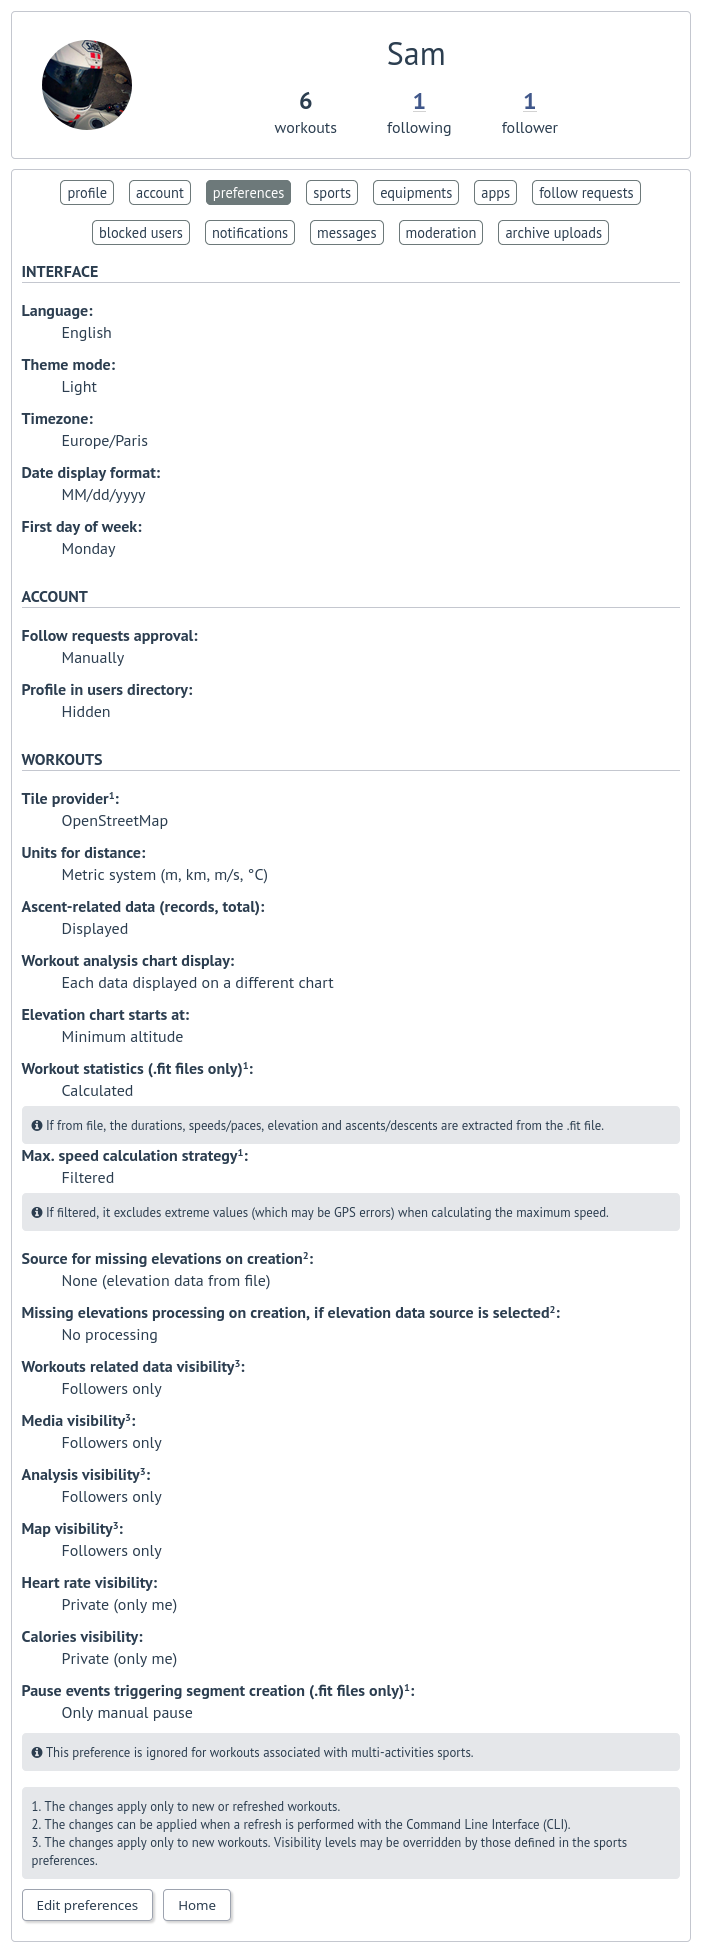
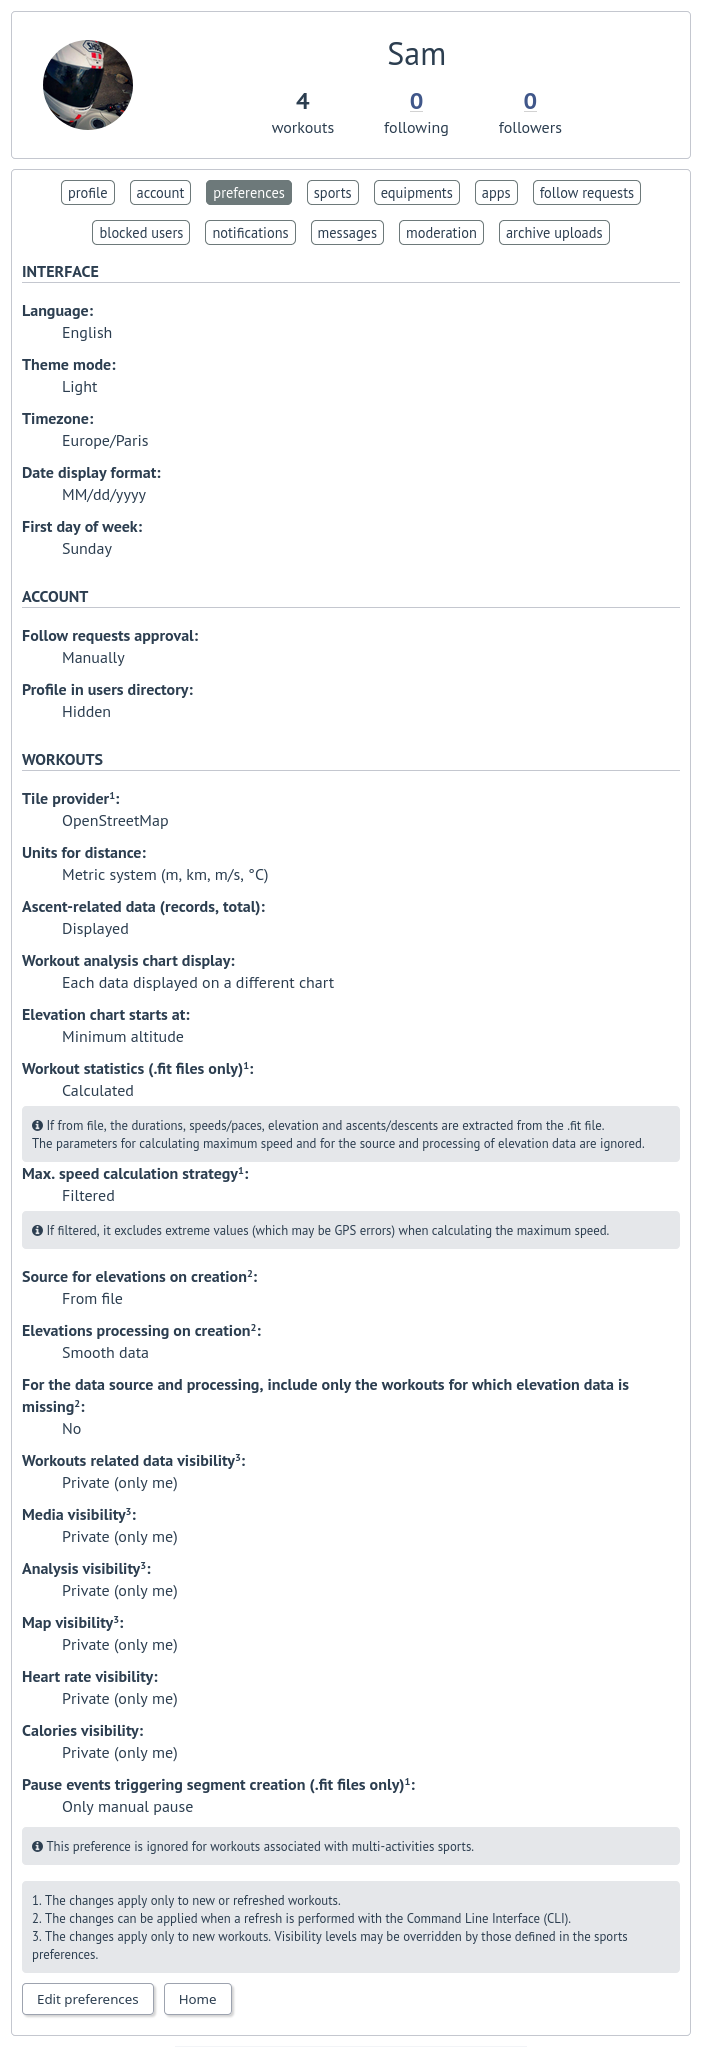
update documentation

Changed region(s): [[0.0299, 0.0, 0.9872, 1.0]]

diff --git a/docsrc/source/features/workout.rst b/docsrc/source/features/workout.rst
@@ -419,23 +419,29 @@ Users can report a workout that violates instance rules. This will send a notifi
 Calculated data
 ===============
 
-.. versionchanged:: 1.4.0 added possibility to get statistics from ``.fit`` file
-
 .. admonition:: Technical notes
 
   Related data are stored in database in metric system.
 
-In case of ``.fit`` files, if the `preference <account_and_preferences.html#preferences>`__ "Workout statistics" is set to "From file", the statistics are not calculated by **FitTrackee** (and ``gpxpy``), but extracted from the file.
+By default, **FitTrackee** extracts points from files and calculates all statistics using `gpxpy <https://github.com/tkrajina/gpxpy>`_.
+
+This explains the differences between the statistics displayed by **FitTrackee** and those displayed by the app or device that originally recorded the file.
+These differences are particularly noticeable for the duration of pauses and the maximum speed.
+
+By default, extreme speed values (which may be related to GPS errors) are excluded, which also affects the maximum speed (and pace).
+
+Some `preferences <account_and_preferences.html#preferences>`__ allow to change the default behavior.
+
+Extracting statistics from the file
+-----------------------------------
+.. versionadded:: 1.4.0
+
+In case of ``.fit`` files only, if the `preference <account_and_preferences.html#preferences>`__ "Workout statistics" is set to "From file", the statistics are not calculated by **FitTrackee**, but extracted from the file.
 
 .. note::
     Statistics are always calculated for segments regardless of preferences (except in case of sports that combine multiple disciplines like **SwimRun** and **Triathlon**)
 
-Otherwise, the calculated values may differ from values calculated by the application or device that originally generated the files, in particular the maximum speed or the duration of pauses.
-
-By default, extreme speed values (which may be related to GPS errors) are excluded, which also affects the maximum speed (and pace).
-
-.. note::
-  A user preference allows this behavior to be disabled (see `Account & preferences <account_and_preferences.html#preferences>`__).
+In addition, the preferences for the source and processing of elevation data are ignored.
 
 
 Stopped speed threshold
@@ -466,12 +472,13 @@ Elevation
 ---------
 .. versionchanged:: 1.0.6 elevation is not displayed for flatwater sports
 .. versionchanged:: 1.1.0 add missing elevation and elevation data source change
-.. versionchanged:: 1.4.0 allow smoothing to be applied regardless of elevation data source
+.. versionchanged:: 1.4.0 allow smoothing to be applied regardless of elevation data source or missing elevation
 
 Elevation-related data for racket sports (Outdoor Tennis and Padel), flatwater sports (Canoeing, Kayaking, Rowing, Open Water Swimming, Rowing and Standup Paddleboarding) and Ice Skating are not displayed if the file contains elevation
 
 | If some elevation data are missing and an `elevation service <../installation/elevation.html>`__ is enabled by the administrators, the missing elevations can be retrieved on workout creation if the user `preference <account_and_preferences.html#preferences>`__ is set.
 | In this case, all elevations are updated.
+| This preference can also be applied to workouts for which no elevation data is missing.
 
 .. note::
 

diff --git a/docsrc/source/features/account_and_preferences.rst b/docsrc/source/features/account_and_preferences.rst
@@ -39,7 +39,7 @@ Preferences
 .. versionchanged:: 0.11.0 preferred displayed for charts
 .. versionchanged:: 1.1.0 missing elevation processing
 .. versionchanged:: 1.3.0 added media visibility
-.. versionchanged:: 1.4.0 added workout statistics from ``.fit`` file and default tile provider, updated missing elevation processing
+.. versionchanged:: 1.4.0 added workout statistics from ``.fit`` file and default tile provider, updated elevation processing
 
 .. figure:: ../_images/user-preferences.png
    :alt: User Preferences on FitTrackee
@@ -67,7 +67,7 @@ For workouts, it is possible to choose:
 - workout statistics (.fit files only):
 
   - calculated (default)
-  - from file ("Max. speed calculation strategy" preference is ignored)
+  - from file (preferences for calculating maximum speed and for the source and processing of elevation data will be ignored)
 
 - elevation chart axis start: zero or minimum altitude
 - to exclude extreme values (which may be GPS errors) when calculating the maximum speed (by default, extreme values are excluded)
@@ -75,16 +75,21 @@ For workouts, it is possible to choose:
   .. note::
     Changing this preference will only affect next file uploads.
 
-- source when elevation is missing if an elevation service is set:
+- elevation source on creation if an elevation service is set:
 
   - none (elevation data from file)
   - OpenElevation
   - Valhalla
 
-- smoothing elevation if OpenElevation or Valhalla are selected as source when elevation is missing:
+- smoothing elevation on creation:
 
   - no processing
   - smooth data
+
+- for the data source and processing, include only the workouts for which elevation data is missing:
+
+  - no (all workouts will be created based on elevation preferences)
+  - yes (only workouts for which elevation data is missing will be created based on elevation preferences)
 
 - default visibility for workout data, media (photos), analysis, map and heart rate.
 
